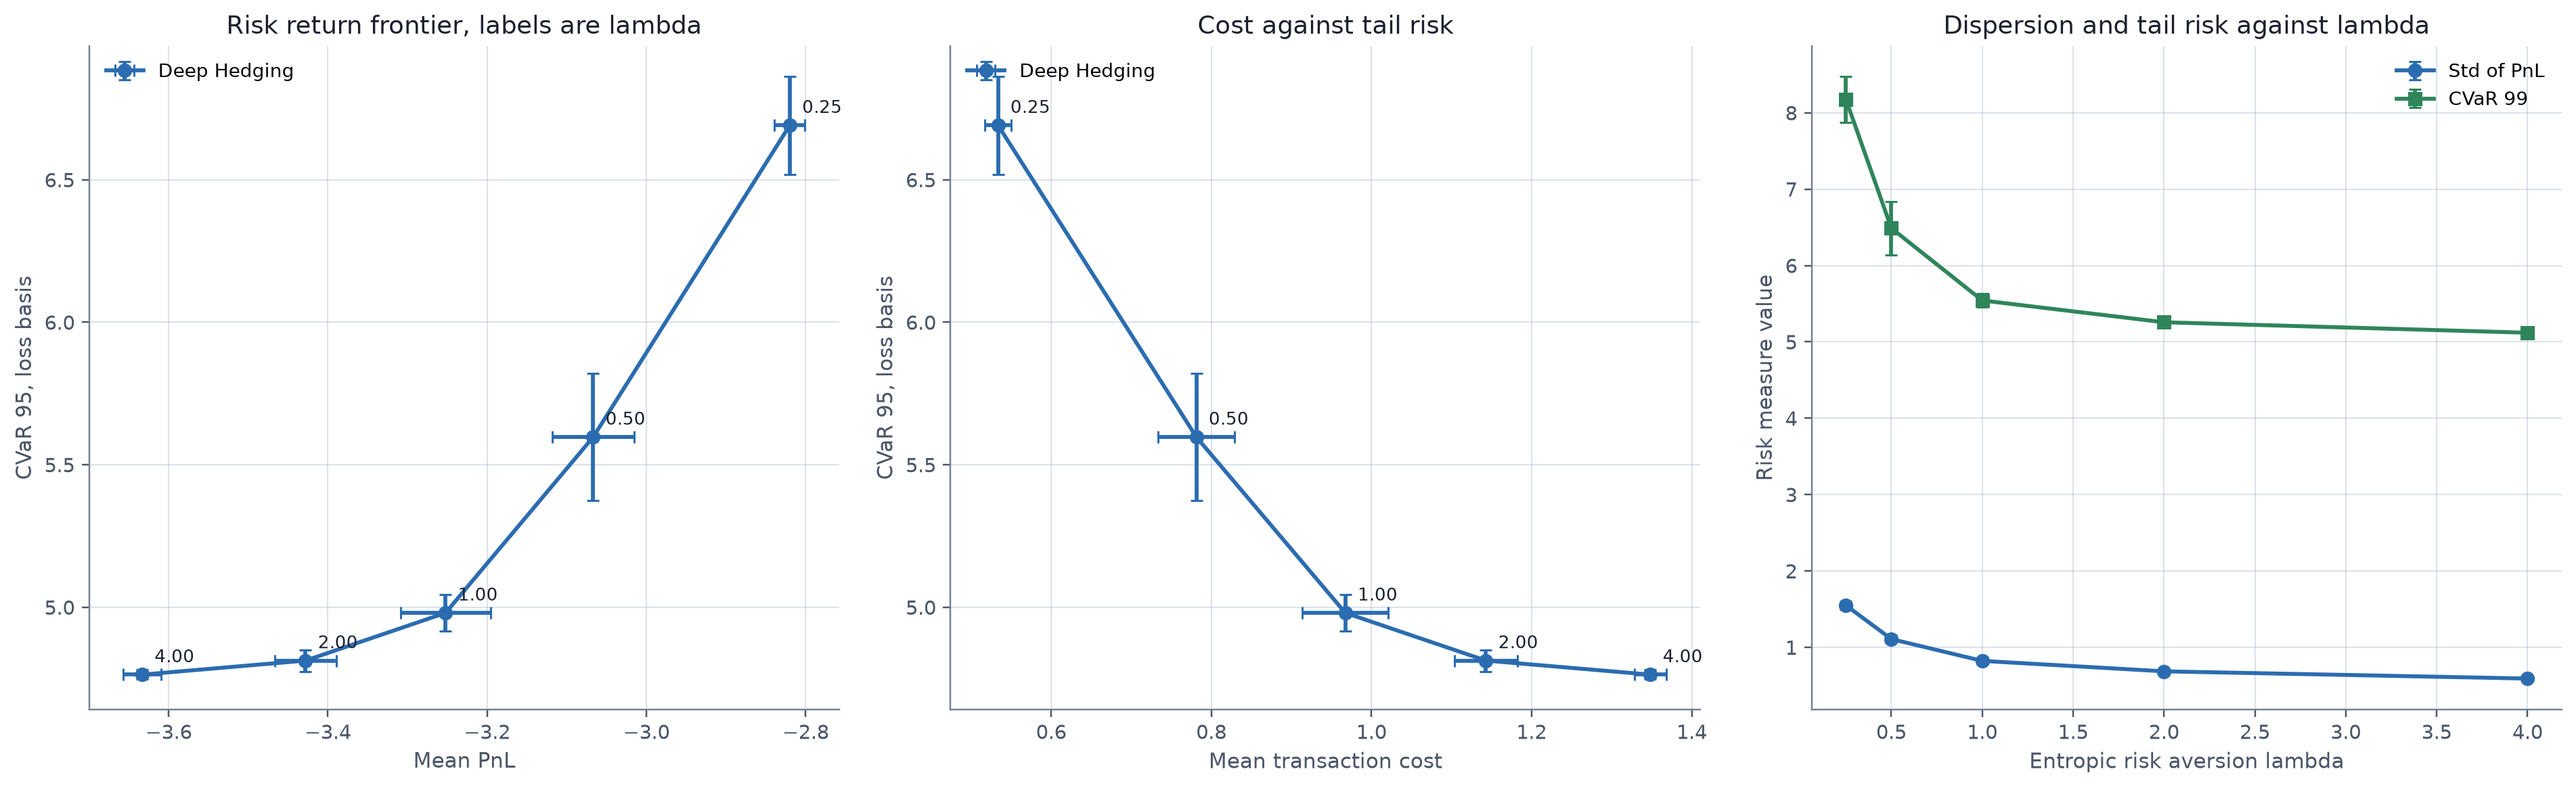
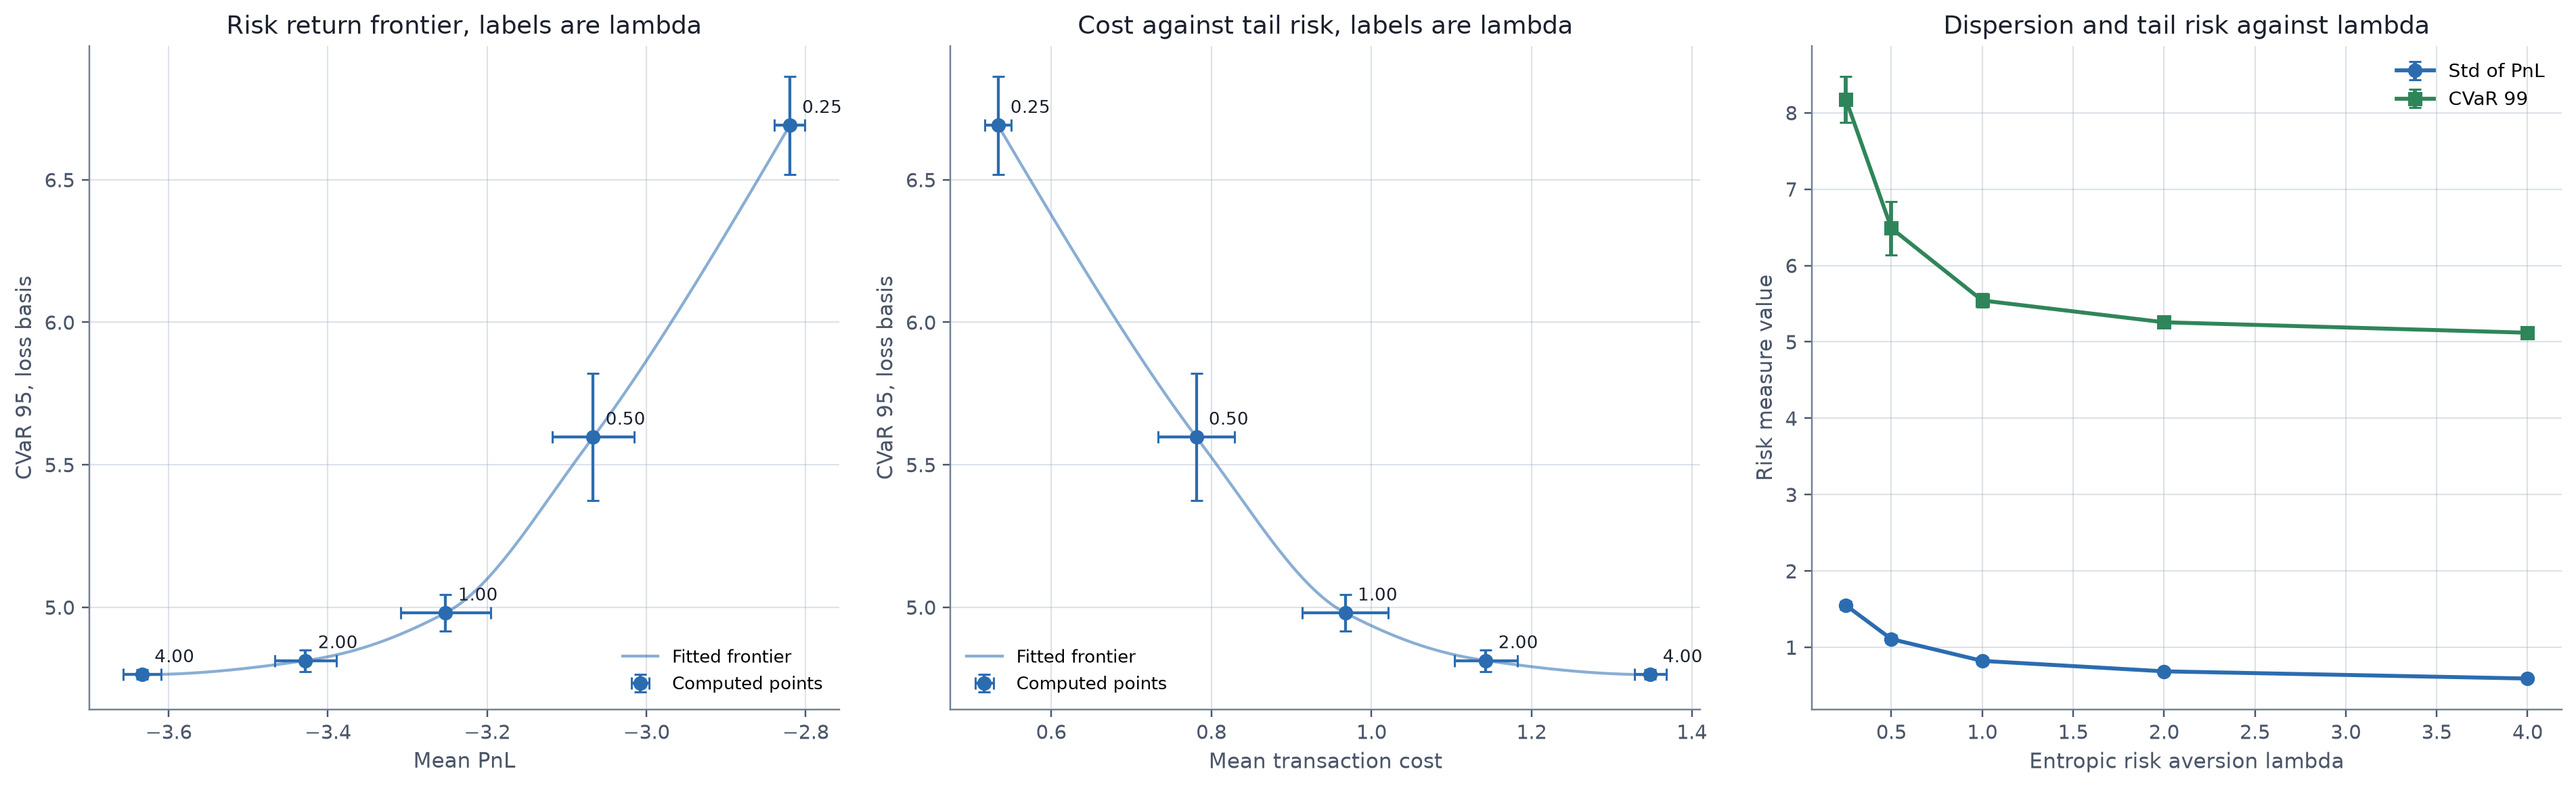
Add fitted lambda frontier curve and Heston variance difference panel
Lambda frontier: the five computed mean points are now joined by a
monotone piecewise cubic Hermite interpolant computed in log lambda,
since the sampled values are equally spaced on a log scale. The fit is
monotone by construction, passes exactly through every computed point,
and is clamped outside the sampled range so it never extrapolates. It is
documented as a visualization convenience that adds no evidence at
unsampled lambda values.

Heston policy: the heatmap remains the primary panel. A difference panel
against the volatility 0.20 baseline is added, which removes the dominant
moneyness trend and makes the modest variance effect legible on its own
scale of about plus or minus 0.05. It shows the effect changes sign
across the spot range rather than being a uniform shift.

Adds plot_lambda_frontier.py to redraw the figure from the saved JSON
without retraining. No training runs, no table values changed.

diff --git a/src/visualize.py b/src/visualize.py
@@ -1,3 +1,4 @@
+import math
 from pathlib import Path
 from typing import Mapping, Sequence
 
@@ -13,6 +14,7 @@ from matplotlib.figure import Figure
 
 from .benchmarks import bs_delta, leland_delta
 from .loss import empirical_cvar
+from .studies import pchip
 
 DPI = 220
 COLORS = {
@@ -496,6 +498,23 @@ def plot_lambda_frontier(
     cost, cost_sd = series("mean_cost")
     std_pnl, std_pnl_sd = series("std_pnl")
 
+    # Monotone cubic fit in log lambda, a visualization aid only
+    log_lambdas = [math.log(float(lam)) for lam in lambdas]
+    dense = [log_lambdas[0] + (log_lambdas[-1] - log_lambdas[0]) * i / 200 for i in range(201)]
+    fit_pnl = pchip(log_lambdas, mean_pnl, dense)
+    fit_cvar95 = pchip(log_lambdas, cvar95, dense)
+    fit_cost = pchip(log_lambdas, cost, dense)
+
+    left.plot(
+        fit_pnl,
+        fit_cvar95,
+        color=COLORS["Deep Hedging"],
+        linewidth=1.4,
+        alpha=0.55,
+        linestyle="-",
+        label="Fitted frontier",
+        zorder=1,
+    )
     left.errorbar(
         mean_pnl,
         cvar95,
@@ -504,17 +523,28 @@ def plot_lambda_frontier(
         color=COLORS["Deep Hedging"],
         marker="o",
         markersize=6,
-        linewidth=1.9,
+        linewidth=0,
+        elinewidth=1.4,
         capsize=3,
-        label="Deep Hedging",
+        label="Computed points",
+        zorder=3,
     )
     for lam, x, y in zip(lambdas, mean_pnl, cvar95):
         left.annotate(f"{lam:.2f}", xy=(x, y), xytext=(6, 6), textcoords="offset points", fontsize=8.5, color=TEXT_COLOR)
     left.set_xlabel("Mean PnL")
     left.set_ylabel("CVaR 95, loss basis")
     left.set_title("Risk return frontier, labels are lambda")
-    left.legend(frameon=False, fontsize=9.0, loc="upper left")
+    left.legend(frameon=False, fontsize=8.6, loc="lower right")
 
+    middle.plot(
+        fit_cost,
+        fit_cvar95,
+        color=COLORS["Deep Hedging"],
+        linewidth=1.4,
+        alpha=0.55,
+        label="Fitted frontier",
+        zorder=1,
+    )
     middle.errorbar(
         cost,
         cvar95,
@@ -523,16 +553,18 @@ def plot_lambda_frontier(
         color=COLORS["Deep Hedging"],
         marker="o",
         markersize=6,
-        linewidth=1.9,
+        linewidth=0,
+        elinewidth=1.4,
         capsize=3,
-        label="Deep Hedging",
+        label="Computed points",
+        zorder=3,
     )
     for lam, x, y in zip(lambdas, cost, cvar95):
         middle.annotate(f"{lam:.2f}", xy=(x, y), xytext=(6, 6), textcoords="offset points", fontsize=8.5, color=TEXT_COLOR)
     middle.set_xlabel("Mean transaction cost")
     middle.set_ylabel("CVaR 95, loss basis")
-    middle.set_title("Cost against tail risk")
-    middle.legend(frameon=False, fontsize=9.0, loc="upper left")
+    middle.set_title("Cost against tail risk, labels are lambda")
+    middle.legend(frameon=False, fontsize=8.6, loc="lower left")
 
     right.errorbar(
         lambdas,
@@ -593,8 +625,9 @@ def plot_heston_policy(
     tau = (config.n_steps - step) * config.dt
     reference_bs = bs_delta(spots, config.K, config.r, config.benchmark_sigma, tau)
 
-    fig, axes = plt.subplots(1, 3, figsize=(17.4, 5.4))
-    left, middle, right = axes[0], axes[1], axes[2]
+    fig, axes = plt.subplots(2, 2, figsize=(13.6, 10.2))
+    left, delta_panel = axes[0]
+    middle, right = axes[1]
 
     # Heatmap makes the variance dependence readable where curves overlap
     vol_grid = np.linspace(0.08, 0.36, 57)
@@ -603,14 +636,14 @@ def plot_heston_policy(
         variance = torch.full_like(spots, float(vol) ** 2)
         with torch.no_grad():
             surface[i] = model.policy_at_step(spots, step, 0.0, variance=variance).numpy()
-    mesh = left.pcolormesh(
+    surface_artist = left.pcolormesh(
         spots.numpy(),
         vol_grid,
         surface,
         cmap="viridis",
         shading="auto",
     )
-    bar = fig.colorbar(mesh, ax=left, pad=0.02)
+    bar = fig.colorbar(surface_artist, ax=left, pad=0.02)
     bar.set_label("Hedge position")
     bar.ax.tick_params(labelsize=8.5, colors=MUTED_COLOR)
     for vol in vol_levels:
@@ -618,6 +651,28 @@ def plot_heston_policy(
     left.set_xlabel("Spot price at the decision date")
     left.set_ylabel("Instantaneous volatility")
     left.set_title(f"Heston position surface at step {step}, previous position 0")
+
+    # Difference against the baseline volatility makes the modest effect legible
+    baseline_vol = float(vol_levels[len(vol_levels) // 2])
+    baseline = torch.full_like(spots, baseline_vol**2)
+    with torch.no_grad():
+        base_curve = model.policy_at_step(spots, step, 0.0, variance=baseline).numpy()
+    for color, vol in zip(CURVE_COLORS, vol_levels):
+        variance = torch.full_like(spots, float(vol) ** 2)
+        with torch.no_grad():
+            curve = model.policy_at_step(spots, step, 0.0, variance=variance).numpy()
+        delta_panel.plot(
+            x,
+            curve - base_curve,
+            color=color,
+            linewidth=2.0,
+            label=f"Volatility {vol:.2f} minus {baseline_vol:.2f}",
+        )
+    delta_panel.axhline(0.0, color=TEXT_COLOR, linewidth=0.9)
+    delta_panel.set_xlabel("Spot price at the decision date")
+    delta_panel.set_ylabel("Position difference")
+    delta_panel.set_title(f"Variance effect relative to volatility {baseline_vol:.2f}")
+    delta_panel.legend(frameon=False, fontsize=8.6, loc="upper right")
 
     for color, prev in zip(CURVE_COLORS, prev_deltas):
         variance = torch.full_like(spots, float(vol_levels[len(vol_levels) // 2]) ** 2)
@@ -654,7 +709,7 @@ def plot_heston_policy(
     right.set_title(f"No-trade band at tolerance {no_trade_tol:.2f}")
     right.legend(frameon=False, fontsize=8.6, loc="upper left")
 
-    for ax in axes:
+    for ax in (left, delta_panel, middle, right):
         _style(ax)
     fig.tight_layout()
     return _save(fig, path)

diff --git a/src/studies.py b/src/studies.py
@@ -2,6 +2,73 @@ import math
 from typing import Mapping, Sequence
 
 
+def _pchip_slopes(x: Sequence[float], y: Sequence[float]) -> list[float]:
+    # Fritsch and Carlson slopes, monotone by construction
+    n = len(x)
+    if n < 2:
+        raise ValueError("at least two points are required")
+    h = [x[i + 1] - x[i] for i in range(n - 1)]
+    if any(step <= 0.0 for step in h):
+        raise ValueError("x must be strictly increasing")
+    delta = [(y[i + 1] - y[i]) / h[i] for i in range(n - 1)]
+    if n == 2:
+        return [delta[0], delta[0]]
+    d = [0.0] * n
+    for i in range(1, n - 1):
+        if delta[i - 1] * delta[i] <= 0.0:
+            d[i] = 0.0
+        else:
+            w1 = 2.0 * h[i] + h[i - 1]
+            w2 = h[i] + 2.0 * h[i - 1]
+            d[i] = (w1 + w2) / (w1 / delta[i - 1] + w2 / delta[i])
+
+    def endpoint(h0: float, h1: float, d0: float, d1: float) -> float:
+        slope = ((2.0 * h0 + h1) * d0 - h0 * d1) / (h0 + h1)
+        if slope * d0 <= 0.0:
+            return 0.0
+        if d0 * d1 <= 0.0 and abs(slope) > abs(3.0 * d0):
+            return 3.0 * d0
+        return slope
+
+    d[0] = endpoint(h[0], h[1], delta[0], delta[1])
+    d[-1] = endpoint(h[-1], h[-2], delta[-1], delta[-2])
+    return d
+
+
+def pchip(x: Sequence[float], y: Sequence[float], grid: Sequence[float]) -> list[float]:
+    # Monotone piecewise cubic Hermite interpolation, numpy free
+    if len(x) != len(y):
+        raise ValueError("x and y must have equal length")
+    d = _pchip_slopes(x, y)
+    out: list[float] = []
+    n = len(x)
+    for value in grid:
+        if value <= x[0]:
+            out.append(float(y[0]))
+            continue
+        if value >= x[-1]:
+            out.append(float(y[-1]))
+            continue
+        index = n - 2
+        for i in range(n - 1):
+            if x[i] <= value <= x[i + 1]:
+                index = i
+                break
+        h = x[index + 1] - x[index]
+        s = (value - x[index]) / h
+        h00 = 2.0 * s**3 - 3.0 * s**2 + 1.0
+        h10 = s**3 - 2.0 * s**2 + s
+        h01 = -2.0 * s**3 + 3.0 * s**2
+        h11 = s**3 - s**2
+        out.append(
+            h00 * y[index]
+            + h10 * h * d[index]
+            + h01 * y[index + 1]
+            + h11 * h * d[index + 1]
+        )
+    return out
+
+
 def aggregate(
     records: Sequence[Mapping[str, float]],
     keys: Sequence[str],

diff --git a/plot_lambda_frontier.py b/plot_lambda_frontier.py
@@ -1,0 +1,24 @@
+import json
+import sys
+from pathlib import Path
+
+from src.visualize import plot_lambda_frontier
+
+
+def main() -> int:
+    # Regenerate the lambda frontier figure from saved multi-seed results
+    source = sys.argv[1] if len(sys.argv) > 1 else "results/lambda_multiseed.json"
+    payload = json.loads(Path(source).read_text(encoding="utf-8"))
+    lambdas = sorted(float(key) for key in payload["lambdas"])
+    per_lambda = {
+        key: {"summary": payload["lambdas"][key]["summary"]} for key in payload["lambdas"]
+    }
+    print(f"lambdas {lambdas}")
+    print(f"seeds {payload['seeds']}  paths {payload['paths']:,}  epochs {payload['epochs']}")
+    figure = plot_lambda_frontier(per_lambda, lambdas, Path("results"))
+    print(f"saved {figure}")
+    return 0
+
+
+if __name__ == "__main__":
+    raise SystemExit(main())

diff --git a/PRELIMINARY_ANALYSIS.md b/PRELIMINARY_ANALYSIS.md
@@ -453,25 +453,42 @@ variance effect is therefore real but roughly a quarter the size of the moneynes
 
 ### Heston policy surface
 
-`heston_policy_curves.png` has three panels. Left: a heatmap of the hedge position against spot on the
-horizontal axis and instantaneous volatility on the vertical axis, at step 15 with the previous
-position at zero, with the three probe volatility levels marked as dotted lines. Middle: the position
-against spot for three fixed previous positions at volatility 0.20, against the Black-Scholes delta.
-Right: the implied no-trade band, the trade size against spot for the same three previous positions.
+`heston_policy_curves.png` has four panels. Top left: a heatmap of the hedge position against spot on
+the horizontal axis and instantaneous volatility on the vertical axis, at step 15 with the previous
+position at zero, with the three probe volatility levels marked as dotted lines. Top right: the
+position difference against the volatility 0.20 baseline, for the same three volatility levels. Bottom
+left: the position against spot for three fixed previous positions at volatility 0.20, against the
+Black-Scholes delta. Bottom right: the implied no-trade band, the trade size against spot for the same
+three previous positions.
 
-The heatmap is the panel that makes the variance dependence readable. A line plot of three volatility
-levels largely overlaps because the effect is modest, whereas the heatmap shows the whole surface. The
-position rises with spot as expected, and at any fixed spot it rises with volatility, from about 0.15 at
-volatility 0.10 to about 0.24 at 0.35 at the money. The gradient is steeper in the region where the
-call is near or above the strike, where convexity matters most, and flattens deep in the money where
-the position approaches its upper bound.
+The heatmap is the primary panel because it shows the whole surface at once. A line plot of three
+volatility levels largely overlaps, since the effect is modest, whereas the heatmap makes the gradient
+visible across the full range. The position rises with spot as expected, and at any fixed spot it rises
+with volatility, from about 0.15 at volatility 0.10 to about 0.24 at 0.35 at the money. The gradient is
+steeper in the region where the call is near or above the strike, where convexity matters most, and
+flattens deep in the money where the position approaches its upper bound.
 
-The middle and right panels reproduce the GBM result in the Heston setting. The learned position lies
-below the Black-Scholes delta across the whole spot range, and the trade size is close to zero over a
-wide interval that shifts with the previous position. The band is widest for the previous position of
-0.30, where the policy declines to trade for spot between roughly 90 and 100, which is the same
-asymmetric no-transaction region seen in the GBM study. The variance-aware policy therefore preserves
-the qualitative structure of the frictional optimum rather than collapsing to a memoryless delta.
+The difference panel is the alternative view that makes the modest effect legible. Subtracting the
+volatility 0.20 baseline removes the dominant moneyness trend, so the residual variance effect is
+plotted on its own scale of about plus or minus 0.05 rather than being compressed against a position
+range of 0 to 1.
+
+The panel shows the effect is not a uniform vertical shift but changes sign across the spot range. For
+volatility 0.30 the position is above the baseline by up to 0.045 in the region just above the strike,
+near spot 100 to 102.5, where a higher variance raises the value of an at or near the money call. It
+falls below the baseline by about 0.029 at spot 110, where the call is comfortably in the money and the
+higher variance instead widens the region over which the policy declines to add, and it returns towards
+the baseline further out. For volatility 0.12 the pattern is broadly the mirror image, with a smaller
+amplitude. This sign structure is the economically meaningful part of the variance response, and it is
+not visible in the overlapping curves or in the heatmap colour scale alone, which is why the difference
+panel is retained alongside the heatmap.
+
+The bottom two panels reproduce the GBM result in the Heston setting. The learned position lies below
+the Black-Scholes delta across the whole spot range, and the trade size is close to zero over a wide
+interval that shifts with the previous position. The band is widest for the previous position of 0.30,
+where the policy declines to trade for spot between roughly 90 and 100, which is the same asymmetric
+no-transaction region seen in the GBM study. The variance-aware policy therefore preserves the
+qualitative structure of the frictional optimum rather than collapsing to a memoryless delta.
 
 ### Drawdown: terminal jump against intra-horizon
 
@@ -540,6 +557,25 @@ both benchmarks on every measure.
 The `lambda = 1.0` row matches the main 5-seed table exactly, as it should, since it is the same
 configuration and seeds. This is a useful internal consistency check on the sweep implementation.
 
+### Fitted frontier curve
+
+`lambda_frontier.png` shows the five computed points with their error bars and a smooth curve drawn
+through them. The left panel plots mean PnL against CVaR 95, the middle panel plots mean cost against
+CVaR 95, and the third panel shows dispersion and tail risk against `lambda`.
+
+The curve is a monotone piecewise cubic Hermite interpolant (PCHIP) of the five mean points, computed
+in $\log\lambda$ rather than in $\lambda$ itself, because the sampled values 0.25, 0.5, 1.0, 2.0 and
+4.0 are equally spaced on a log scale. The interpolation is monotone by construction, so it cannot
+introduce a spurious reversal between two adjacent risk aversion levels, and it passes exactly through
+every computed point. It is clamped to the first and last point outside the sampled range, so the curve
+never extrapolates beyond the evidence.
+
+This is a visualization convenience, not a new result. The fit adds no information beyond the five
+points: it does not estimate the curve at unsampled `lambda` values, since the true frontier need not
+be piecewise cubic between them, and no claim in this document depends on it. Its only purpose is to
+make the shape of the tradeoff easier to read than five isolated markers. The reported numbers remain
+the five computed points in the table above, each with its own 5-seed standard deviation.
+
 ### Time-dependent variant under LayerNorm
 
 The network supports two weight-sharing modes. The shared mode uses one linear layer per hidden layer
@@ -597,12 +633,16 @@ artifact, not a capacity limit, but removing that artifact made it competitive r
    What is not characterized is the interaction between the once-per-epoch projection and minibatch
    noise within the epoch, since the threshold is held fixed across the minibatches of an epoch while
    the policy moves.
-7. The lambda sweep covers five values, 0.25 to 4.00, which is enough to read the frontier shape but
-   not a continuous parameterization. The paper treats `lambda` as a continuous tuning parameter.
+7. The lambda sweep covers five computed values, 0.25 to 4.00, which is enough to read the frontier
+   shape but is not a continuous parameterization. A continuous fitted curve is now available as a
+   visualization aid drawn through the five computed points, shown in `lambda_frontier.png`. The curve
+   interpolates the measured means and does not add evidence at unsampled `lambda` values, so the five
+   computed points remain the reported result.
 8. The Heston policy figure uses a heatmap for the variance dimension rather than a family of curves,
    because the variance effect, a spread of about 0.08 in position across the full volatility range,
-   is small enough that separate curves overlap. The heatmap is readable but less direct than the
-   single-curve GBM panel.
+   is small enough that separate curves overlap. A difference panel against the volatility 0.20
+   baseline is included to make the residual effect legible, but neither panel is as direct as the
+   single-curve GBM figure, since the Heston policy is a surface rather than a curve.
 
 ### Resolved in this iteration
 
@@ -646,5 +686,6 @@ remaining work is either empirical or a genuine scope extension rather than a st
    rather than a parameter change.
 3. Add a second friction model, for example quadratic market impact or a bid-ask spread, to test
    whether the no-transaction band widens as the theory predicts when costs become nonlinear.
-4. Extend the lambda frontier to a continuous curve by fitting the five computed points, which would
-   let the efficient frontier be read at any risk aversion rather than at the sampled values.
+4. Add computed points between the existing `lambda` values rather than reading the fitted curve at
+   unsampled risk aversions, if a finer frontier is needed for the write-up. The fitted curve is a
+   visualization aid only and should not be used to quote numbers at unsampled `lambda`.

diff --git a/README.md b/README.md
@@ -61,7 +61,11 @@ python main.py --multi-seed
 python main.py --sensitivity-paths 100000 --sensitivity-epochs 20
 python heston_multiseed.py 100000 20
 python lambda_multiseed.py 0.25,0.5,1.0,2.0,4.0 100000 20
+python plot_lambda_frontier.py
 ```
+
+`plot_lambda_frontier.py` redraws `results/lambda_frontier.png` from the saved
+`results/lambda_multiseed.json` without retraining.
 
 ## Multi-seed study
 
@@ -99,9 +103,9 @@ which is the interpretable one because the terminal version is dominated by the 
 | `position_dynamics.png` | Delta trajectories and position against moneyness over time |
 | `pnl_paths.png` | Cumulative PnL paths and per strategy bands |
 | `heston_cost_sensitivity.png` | Heston CVaR at 95 and 99 percent across cost levels |
-| `heston_policy_curves.png` | Heston position surface and the no-transaction band |
+| `heston_policy_curves.png` | Heston position surface, variance difference, and the no-trade band |
 | `heston_diagnostics.png` | Heston variance paths and the policy response to volatility |
-| `lambda_frontier.png` | Risk return frontier across entropic risk aversion levels |
+| `lambda_frontier.png` | Risk return frontier, computed points with a fitted curve |
 
 ## Notes
 
